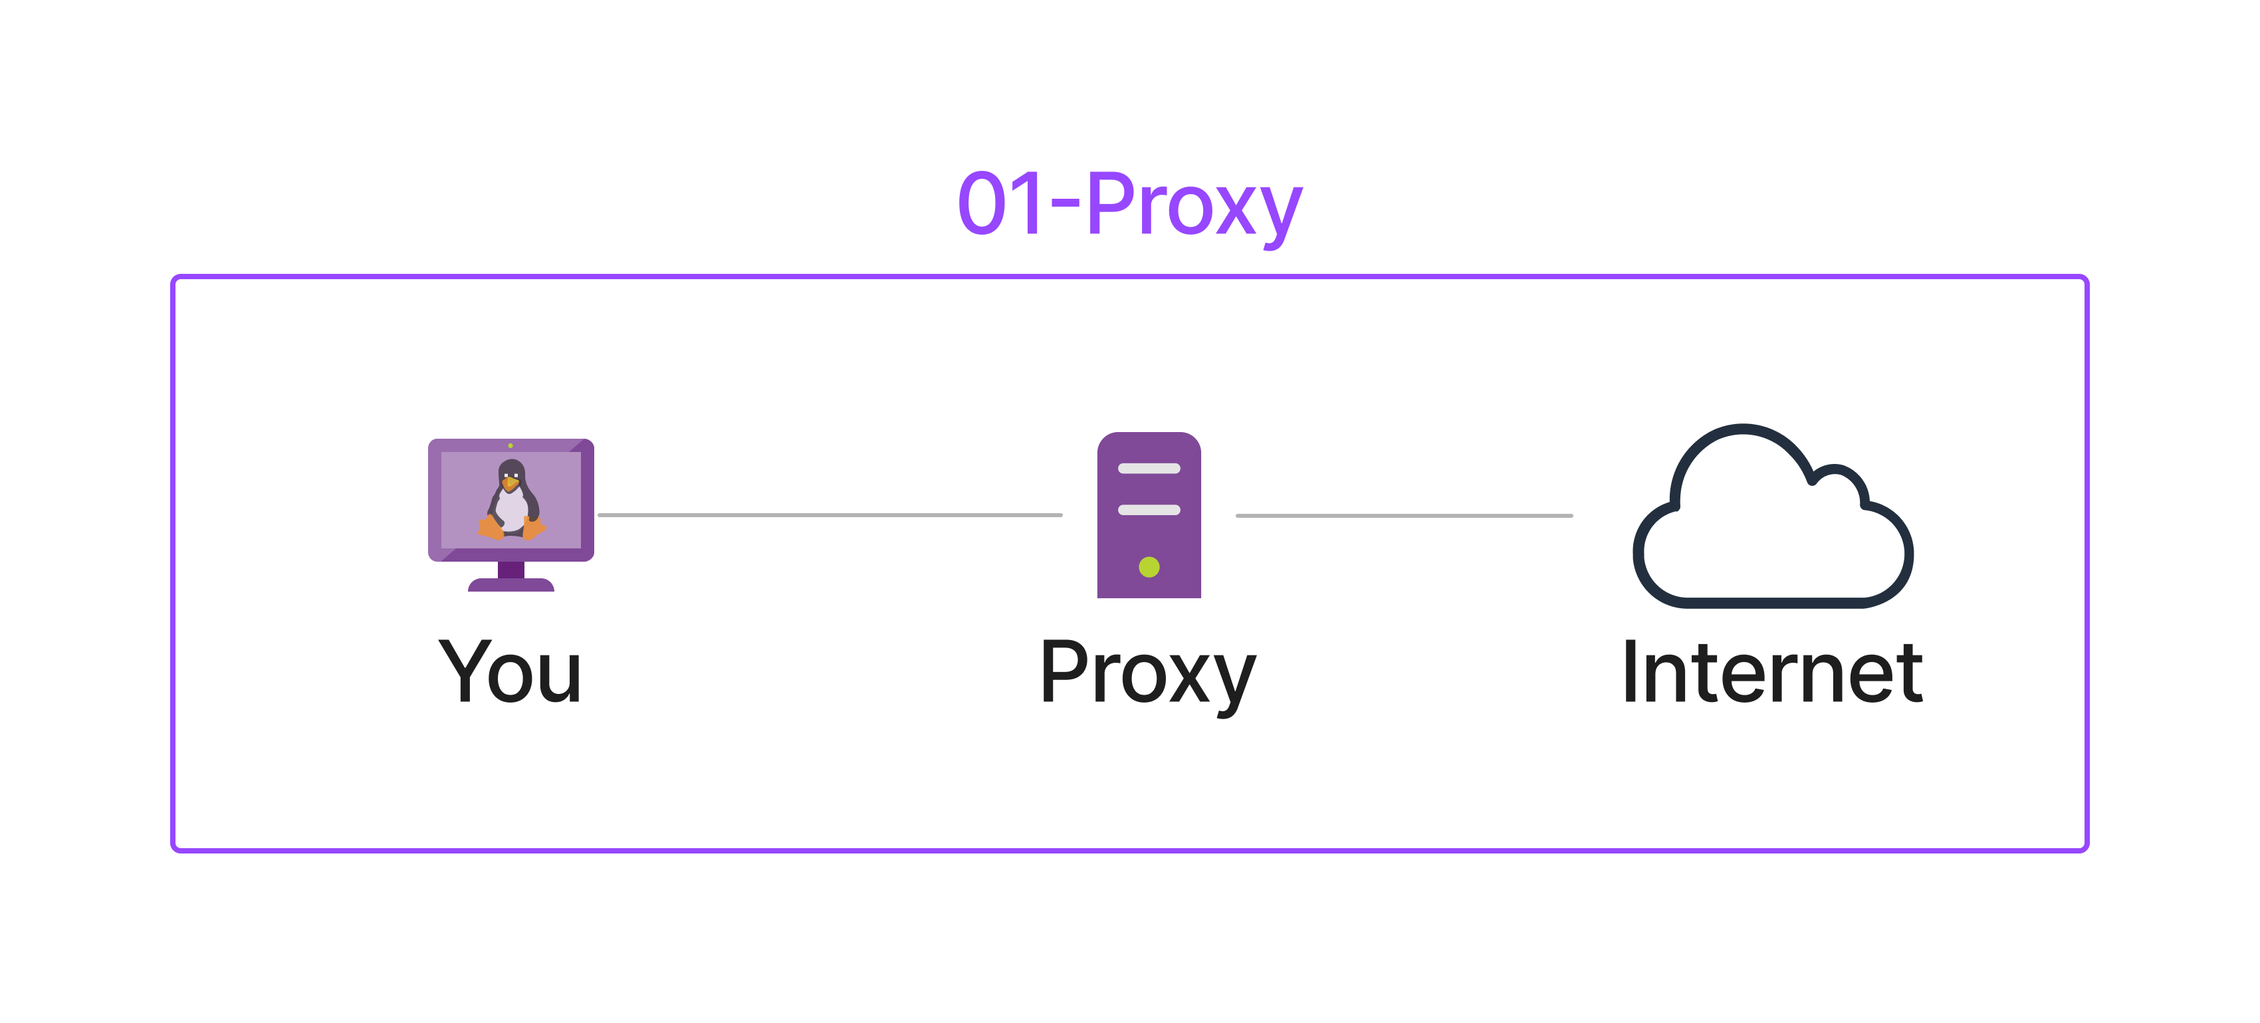
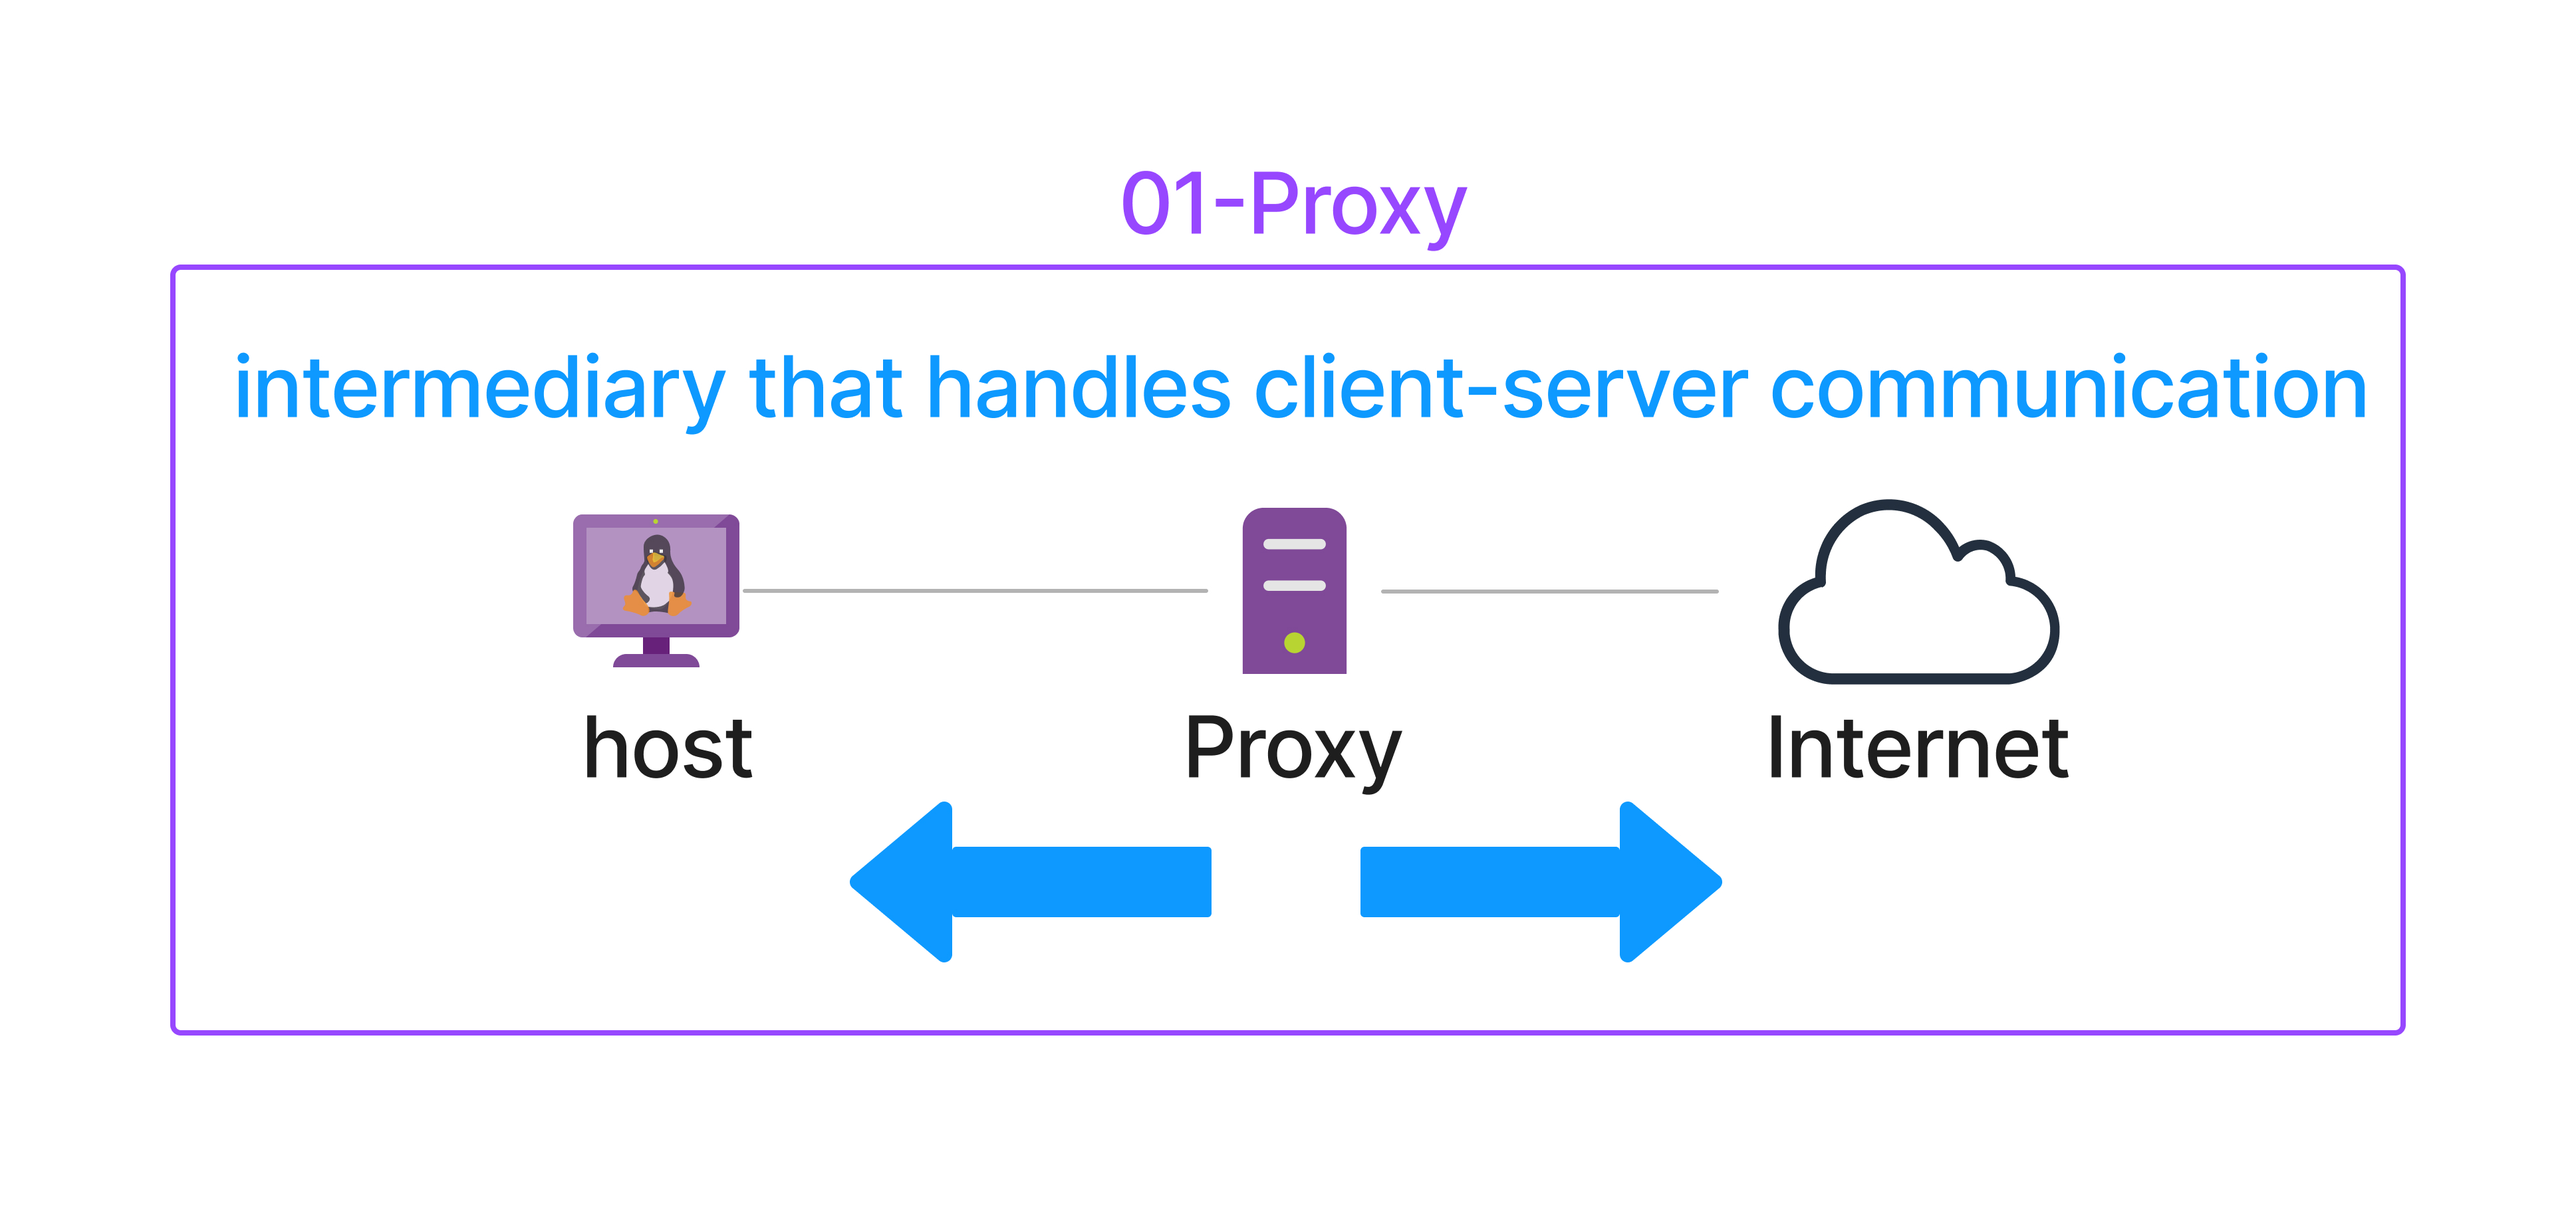
Merge remote-tracking branch 'origin/main' into main

Changed region(s): [[0.0624, 0.1248, 0.9353, 0.8733], [0.8418, 0.5302, 0.8729, 0.5614]]

diff --git a/haproxy/Conepts/03-Proxy.md b/haproxy/Conepts/03-Proxy.md
@@ -2,7 +2,7 @@
 
 * a proxy is a general term for an intermediary that handles client-server communication. 
 
-![proxy](https://github.com/hojat-gazestani/DevOps/blob/main/haproxy/pictures/01-proxy.jpg)
+![proxy]()
 
 - A proxy acts as an intermediary between a client and a server.
 - It can intercept and forward requests and responses between the client and server.
@@ -14,9 +14,21 @@
 
 * A forward proxy is used by clients to access resources on the internet
 
-![forward](https://github.com/hojat-gazestani/DevOps/blob/main/haproxy/pictures/02-%20forward%20proxy.jpg)
+![forward]()
 
 - A forward proxy, also known as a client-side proxy, is used by clients to access resources on the internet.
 - Clients configure their applications or devices to send requests to the forward proxy server.
 - The forward proxy server then forwards the client's requests to the internet on behalf of the client.
 - Forward proxies are commonly used to bypass network restrictions, enhance privacy, and improve performance through caching.
+
+# Reverse Proxy:
+
+* a reverse proxy is used by servers to handle incoming client requests and distribute them to multiple backend servers. 
+
+![revers]()
+
+- A reverse proxy, also known as a server-side proxy, sits between clients and servers.
+- Clients send requests to the reverse proxy, which then forwards the requests to the appropriate server.
+- Reverse proxies are typically used to distribute incoming client requests across multiple servers (load balancing).
+- They can also provide additional functionality like SSL termination, caching, compression, and security measures.
+- Reverse proxies are often used in web server environments to improve scalability, reliability, and security.
